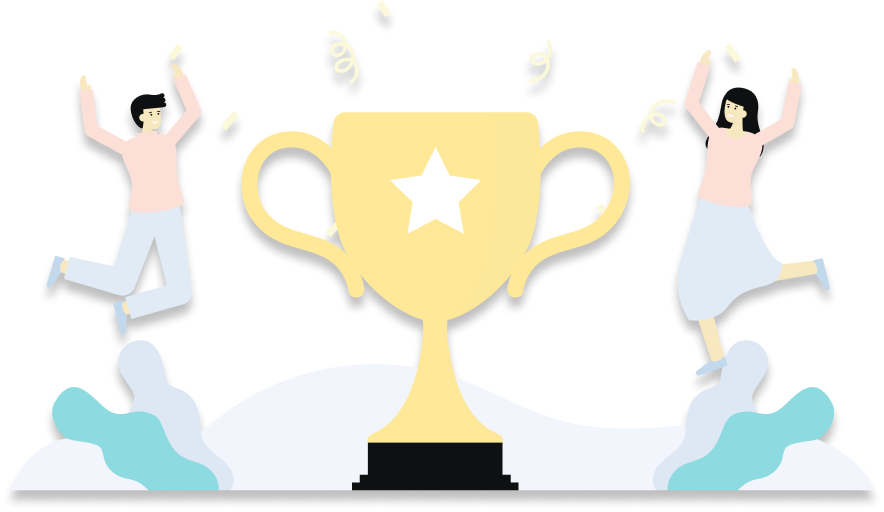
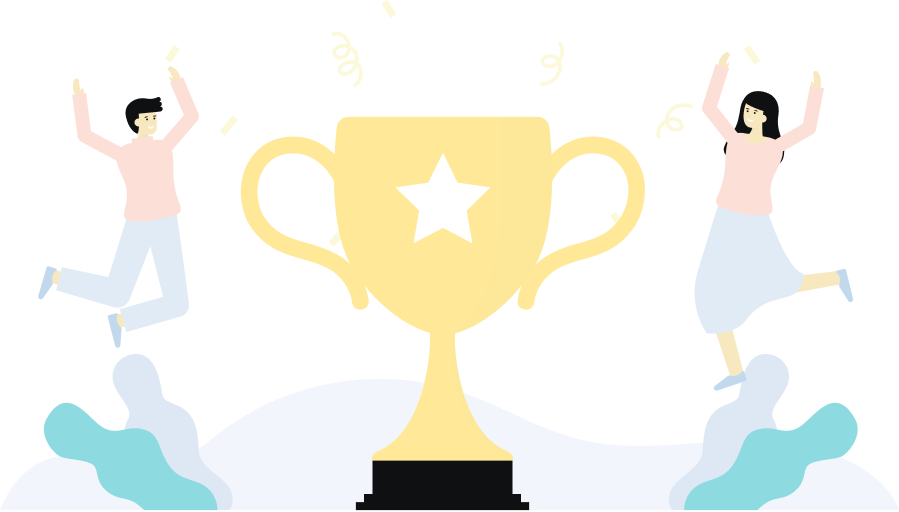
ranking.dart ui

diff --git a/marshmallow/lib/screens/ranking/ranking.dart b/marshmallow/lib/screens/ranking/ranking.dart
@@ -1,12 +1,15 @@
 import 'package:cloud_firestore/cloud_firestore.dart';
 import 'package:flutter/material.dart';
 import 'package:marshmallow/models/user.dart';
+import 'package:marshmallow/screens/home/home.dart';
 import 'package:marshmallow/utils/colors.dart';
 import 'package:get/get.dart';
+import 'package:marshmallow/utils/text.dart';
+import 'package:marshmallow/widgets/button.dart';
 
 var _getArguments = Get.arguments;
 GameUser _currentPlayer = _getArguments[0];
-var index = 0;
+
 
 class RankingPage extends StatefulWidget {
   @override
@@ -15,14 +18,12 @@ class RankingPage extends StatefulWidget {
 
 class _RankingPageState extends State<RankingPage> {
   final firestore = FirebaseFirestore.instance;
-  @override
-  void initState() {
-    index = 0;
-    super.initState();
-  }
+ 
 
   @override
   Widget build(BuildContext context) {
+    var size = MediaQuery.of(context).size;
+
     return Scaffold(
         resizeToAvoidBottomInset: false,
         backgroundColor: backgroundBlue,
@@ -52,6 +53,7 @@ class _RankingPageState extends State<RankingPage> {
                     int myIdx = 0;
                     int myglobalToken = 0;
                     String myId = '';
+                    var index = 0;
                     for (var doc in docs) {
                       index++;
                       int globalToken = doc['globalToken'];
@@ -68,26 +70,69 @@ class _RankingPageState extends State<RankingPage> {
                       );
                       rankList.add(rankObject);
                     }
-                    return Column(
-                      children: [
-                        Text('나의 랭킹'),
-                        Container(
-                          child: Row(children: [
-                            Text(myIdx.toString()),
-                            Text(myId),
-                            Text(myglobalToken.toString()),
-                          ]),
-                        ),
-                        Divider(
-                          height: 1,
-                        ),
-                        Text('전체 랭킹'),
-                        Expanded(
-                          child: ListView(
-                            children: rankList,
+                    return Container(
+                      padding: EdgeInsets.symmetric(horizontal: size.width*0.08),
+                      child: Column(
+                        crossAxisAlignment: CrossAxisAlignment.start,
+                        children: [
+                          Padding(
+                            padding: EdgeInsets.symmetric(vertical: 45),
+                            child: Image.asset('assets/ranking.png'),
                           ),
-                        ),
-                      ],
+
+                          Text('나의 랭킹', style: body5style(),),
+                          SizedBox(height: 11),
+                          Container(
+                            child: Row(
+                              children: [
+                                Expanded(
+                                  flex:1,
+                                  child: Text(myIdx.toString(), style: body5style()),
+                                ),
+                                Expanded(
+                                  flex:5,
+                                  child: Text(myId, style: body5style()),
+                                ),
+                                Expanded(
+                                  flex:2,
+                                  child: Image.asset('assets/m.png', height:30), 
+                                ),
+                                Expanded(
+                                  flex:1,
+                                  child: Text(myglobalToken.toString(), style: body5style()),
+                                ),
+                              ]
+                            ),
+                          ),
+                          Padding(
+                            padding: EdgeInsets.only(top:20, bottom: 20),
+                            child: Center(child: Image.asset('assets/dots.png', width:5)),
+                          ),
+                          Text('전체 랭킹',style: body5style(),),
+                          SizedBox(height: 20),
+                          Expanded(
+                            child: Container(
+                              decoration:  BoxDecoration(
+                                color: white.withOpacity(0.5),
+                                shape: BoxShape.rectangle,
+                                borderRadius: BorderRadius.all( Radius.circular(15))
+                                
+                              ),
+                              padding: EdgeInsets.all(15),
+                              
+                              child: ListView(
+                                children: rankList,
+                              ),
+                            ),
+                          ),
+                          SizedBox(height:20),
+                          Center(
+                            child: mediumButtonTheme('홈으로', () {
+                              Get.off(HomePage());
+                            }),
+                          ),
+                        ],
+                      ),
                     );
                   } on Exception catch (e) {
                     return Center(
@@ -113,10 +158,28 @@ class RankBuilder extends StatefulWidget {
 class _RankBuilderState extends State<RankBuilder> {
   @override
   Widget build(BuildContext context) {
-    return Row(children: [
-      Text(widget.index.toString()),
-      Text(widget.id),
-      Text(widget.globalToken.toString()),
-    ]);
+    return Container(
+      padding: EdgeInsets.symmetric(vertical: 5),
+      child: Row(
+        
+        children: [
+        Expanded(
+          flex:1,
+          child: Text(widget.index.toString(), style: body5style()),
+        ),
+        Expanded(
+          flex:5,
+          child: Text(widget.id, style: body5style()),
+        ),
+        Expanded(
+          flex:1,
+          child: Image.asset('assets/m.png', height:20), 
+        ),
+        Expanded(
+          flex:1,
+          child: Text(widget.globalToken.toString(), style: body5style(),textAlign: TextAlign.center,),
+        ),
+      ]),
+    );
   }
 }
